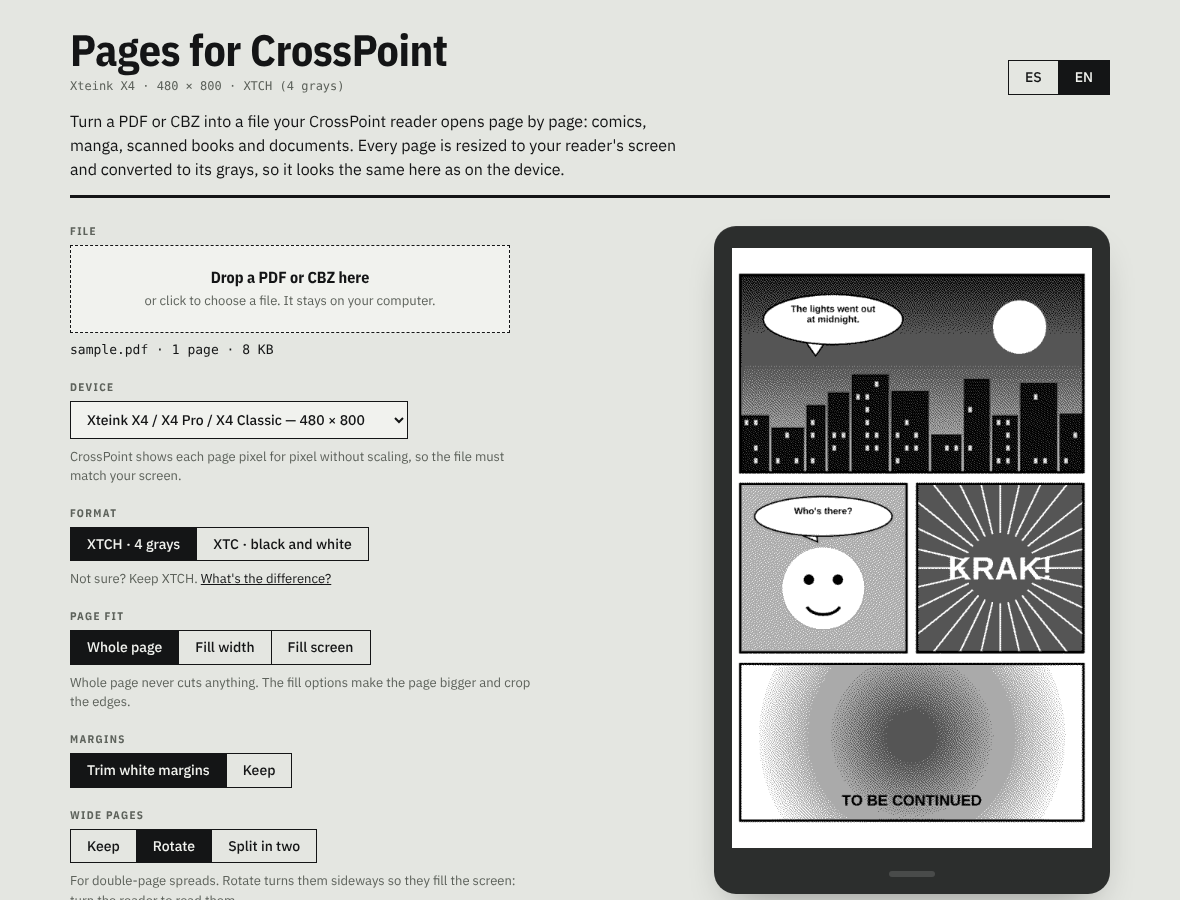
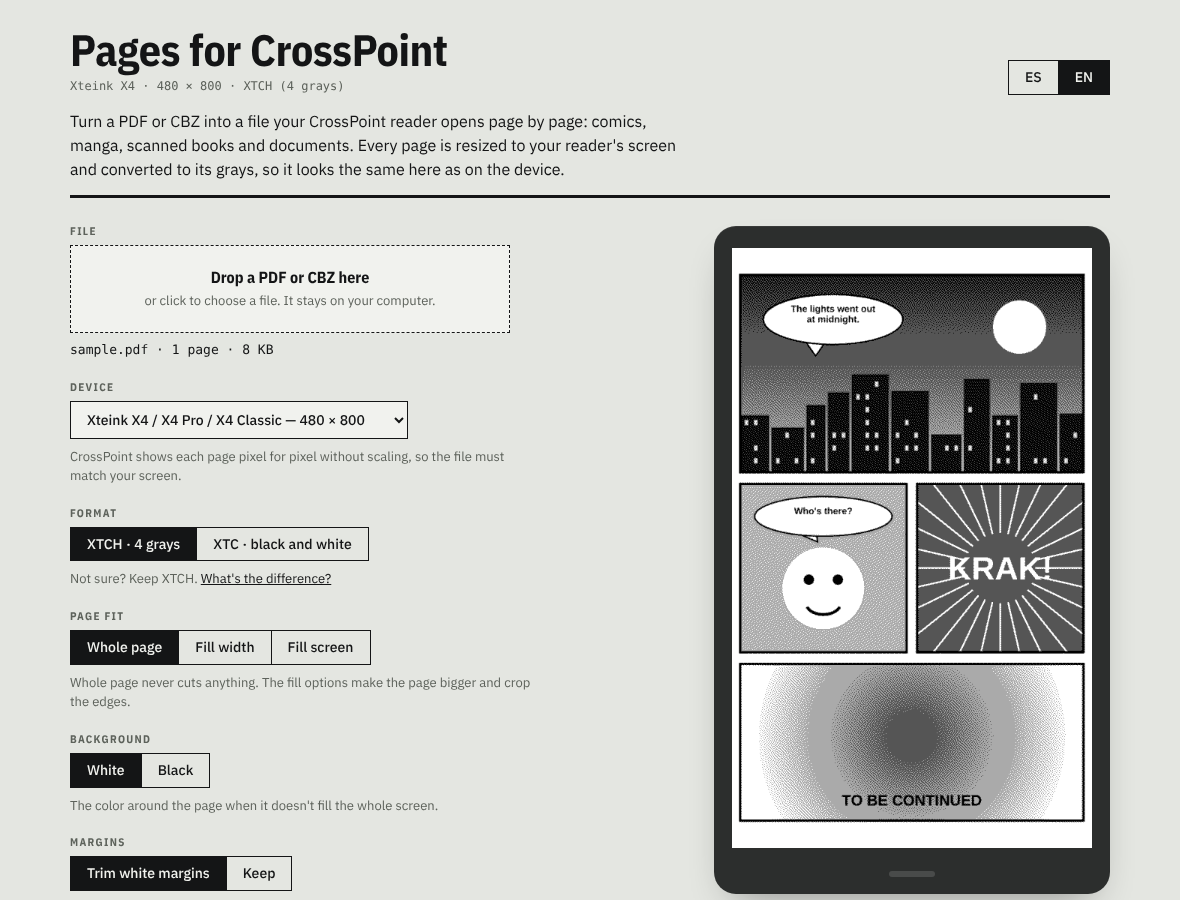
Add background color option and final file size before converting
Background: white or black around pages that don't fill the screen.
The final file size is exact for every setting except Split in two,
where PDFs get a close estimate from page sizes and CBZs a range.

Claude-Session: https://claude.ai/code/session_01Xucrxv7d2G3mzJqxddxMpR

Changed region(s): [[0.061, 0.8089, 0.4271, 1.0]]

diff --git a/index.html b/index.html
@@ -102,6 +102,7 @@ select { min-width: 280px; justify-self: start; }
 .btn:disabled { opacity: .5; cursor: not-allowed; filter: none; }
 .bar { height: 10px; max-width: 440px; border: 1.5px solid var(--ink); background: var(--panel); }
 .bar i { display: block; height: 100%; width: 0; background: var(--ink); }
+.estimate { font: 500 13px/1.4 var(--f-mono); color: var(--ink); margin: 0; max-width: 440px; }
 .status { font: 400 13px/1.4 var(--f-mono); color: var(--muted); min-height: 1.4em; margin: 0; max-width: 440px; }
 
 .howto { background: var(--panel); border: 1px solid var(--rule); padding: 18px 20px; display: grid; gap: 10px; max-width: 520px; }
@@ -205,6 +206,15 @@ footer a, .hint a { color: var(--ink); }
       </div>
 
       <div class="field">
+        <span class="label" data-t="bg">Background</span>
+        <div class="seg" role="radiogroup">
+          <input type="radio" name="bg" id="bg-white" value="white"><label for="bg-white" data-t="bgWhite">White</label>
+          <input type="radio" name="bg" id="bg-black" value="black"><label for="bg-black" data-t="bgBlack">Black</label>
+        </div>
+        <p class="hint" data-t="bgHint">The color around the page when it doesn't fill the whole screen.</p>
+      </div>
+
+      <div class="field">
         <span class="label" data-t="trim">Margins</span>
         <div class="seg" role="radiogroup">
           <input type="radio" name="trim" id="t-auto" value="auto"><label for="t-auto" data-t="trimAuto">Trim white margins</label>
@@ -236,6 +246,7 @@ footer a, .hint a { color: var(--ink); }
       </div>
 
       <div class="download">
+        <p class="estimate" id="estimate" hidden></p>
         <button class="btn" id="go" type="button" disabled><span data-t="go">Convert and download</span><small id="outname"></small></button>
         <button class="btn secondary" id="cancel" type="button" hidden><span data-t="cancel">Cancel</span></button>
         <div class="bar" id="bar" hidden><i id="barfill"></i></div>
@@ -304,6 +315,11 @@ const UI = {
     deviceHint: "CrossPoint shows each page pixel for pixel without scaling, so the file must match your screen.",
     format: "Format", fXtch: "XTCH · 4 grays", fXtc: "XTC · black and white",
     fmtHint: "Not sure? Keep XTCH.", fmtMore: "What's the difference?",
+    bg: "Background", bgWhite: "White", bgBlack: "Black",
+    bgHint: "The color around the page when it doesn't fill the whole screen.",
+    estExact: (sz, n) => `Final file: ${sz} · ${n} pages`,
+    estAbout: (sz, n) => `Final file: about ${sz} · about ${n} pages`,
+    estRange: (a, b) => `Final file: ${a} to ${b}, depending on how many pages are wide`,
     fit: "Page fit", fitFit: "Whole page", fitW: "Fill width", fitS: "Fill screen",
     fitHint: "Whole page never cuts anything. The fill options make the page bigger and crop the edges.",
     trim: "Margins", trimAuto: "Trim white margins", trimKeep: "Keep",
@@ -324,7 +340,7 @@ const UI = {
     xtcName: "XTC · black and white",
     xtcBody: "Each pixel is pure black or white, and grays are simulated with a fine dot pattern. Files are smaller and pages turn faster. Best for line art, text and high-contrast comics.",
     perPage: (kb, dev) => `About ${kb} KB per page on the ${dev}.`,
-    perBook: (mb, n) => ` About ${mb} MB for your ${n} pages.`,
+    perBook: (sz, n) => ` About ${sz} for your ${n} pages.`,
     foot: 'Made for <a href="https://crosspointreader.com/" target="_blank" rel="noopener">CrossPoint Reader</a>. Not affiliated with the project.',
     specGray: "XTCH (4 grays)", specBw: "XTC (black and white)",
     pages: (n) => `${n} page${n === 1 ? "" : "s"}`,
@@ -355,6 +371,11 @@ const UI = {
     deviceHint: "CrossPoint muestra cada página píxel por píxel, sin escalar, así que el archivo tiene que coincidir con tu pantalla.",
     format: "Formato", fXtch: "XTCH · 4 grises", fXtc: "XTC · blanco y negro",
     fmtHint: "¿No sabes cuál? Deja XTCH.", fmtMore: "¿Cuál es la diferencia?",
+    bg: "Fondo", bgWhite: "Blanco", bgBlack: "Negro",
+    bgHint: "El color alrededor de la página cuando no llena toda la pantalla.",
+    estExact: (sz, n) => `Archivo final: ${sz} · ${n} páginas`,
+    estAbout: (sz, n) => `Archivo final: unos ${sz} · unas ${n} páginas`,
+    estRange: (a, b) => `Archivo final: de ${a} a ${b}, según cuántas páginas sean anchas`,
     fit: "Ajuste de página", fitFit: "Página completa", fitW: "Llenar ancho", fitS: "Llenar pantalla",
     fitHint: "Página completa nunca recorta nada. Las opciones de llenar hacen la página más grande y recortan las orillas.",
     trim: "Márgenes", trimAuto: "Recortar márgenes blancos", trimKeep: "Conservar",
@@ -375,7 +396,7 @@ const UI = {
     xtcName: "XTC · blanco y negro",
     xtcBody: "Cada píxel es negro o blanco puro, y los grises se simulan con un patrón de puntos fino. Los archivos pesan menos y las páginas pasan más rápido. Ideal para dibujo de línea, texto y comics de alto contraste.",
     perPage: (kb, dev) => `Unos ${kb} KB por página en el ${dev}.`,
-    perBook: (mb, n) => ` Unos ${mb} MB para tus ${n} páginas.`,
+    perBook: (sz, n) => ` Unos ${sz} para tus ${n} páginas.`,
     foot: 'Hecho para <a href="https://crosspointreader.com/" target="_blank" rel="noopener">CrossPoint Reader</a>. Sin relación oficial con el proyecto.',
     specGray: "XTCH (4 grises)", specBw: "XTC (blanco y negro)",
     pages: (n) => `${n} página${n === 1 ? "" : "s"}`,
@@ -413,7 +434,7 @@ const DEVICES = [
 
 // ---------------------------------------------------------------- state
 const $ = (s) => document.querySelector(s);
-const state = { ui: null, device: "x4", cw: 480, ch: 800, fmt: "xtch", fit: "fit", trim: "auto", spread: "rotate", dir: "ltr" };
+const state = { ui: null, device: "x4", cw: 480, ch: 800, fmt: "xtch", fit: "fit", trim: "auto", spread: "rotate", dir: "ltr", bg: "white" };
 try { const saved = JSON.parse(localStorage.getItem("cp-pages") || "null"); if (saved) Object.assign(state, saved); }
 catch (e) { /* storage unavailable: defaults */ }
 if (!UI[state.ui]) state.ui = (navigator.language || "en").slice(0, 2) === "es" ? "es" : "en";
@@ -450,8 +471,8 @@ async function openPdf(file) {
   let doc;
   try { doc = await pdfjsLib.getDocument({ data, isEvalSupported: false }).promise; }
   catch (e) { throw { code: e && e.name === "PasswordException" ? "password" : "openFail" }; }
-  return {
-    kind: "pdf", count: doc.numPages,
+  const src = {
+    kind: "pdf", count: doc.numPages, wide: null,
     async raster(i, side) {
       const page = await doc.getPage(i + 1);
       const v1 = page.getViewport({ scale: 1 });
@@ -467,6 +488,18 @@ async function openPdf(file) {
     },
     close() { doc.destroy(); },
   };
+  (async () => {                                          // page sizes only, no rendering: fast
+    let wide = 0;
+    try {
+      for (let i = 1; i <= doc.numPages; i++) {
+        const v = (await doc.getPage(i)).getViewport({ scale: 1 });
+        if (v.width > v.height * 1.05) wide++;
+      }
+      src.wide = wide;
+      if (source === src) refresh();
+    } catch (e) { /* estimate stays a range */ }
+  })();
+  return src;
 }
 
 async function openCbz(file) {
@@ -478,7 +511,7 @@ async function openCbz(file) {
     .sort((a, b) => a.localeCompare(b, undefined, { numeric: true, sensitivity: "base" }));
   if (!names.length) throw { code: "noImages" };
   return {
-    kind: "cbz", count: names.length,
+    kind: "cbz", count: names.length, wide: null,
     async raster(i, side) {
       const blob = await zip.files[names[i]].async("blob");
       const bmp = await createImageBitmap(blob);
@@ -552,12 +585,12 @@ function scaled(src, w, h) {
   }
   return cur;
 }
-function fitTo(src, W, H, mode) {
+function fitTo(src, W, H, mode, bg) {
   const sw = src.width, sh = src.height;
   const s = mode === "width" ? W / sw : mode === "screen" ? Math.max(W / sw, H / sh) : Math.min(W / sw, H / sh);
   const dw = sw * s, dh = sh * s;
   const out = newCanvas(W, H), g = ctx2d(out);
-  g.fillStyle = "#fff"; g.fillRect(0, 0, W, H);
+  g.fillStyle = bg === "black" ? "#000" : "#fff"; g.fillRect(0, 0, W, H);
   const step = scaled(src, dw, dh);
   g.imageSmoothingQuality = "high";
   g.drawImage(step, (W - dw) / 2, (H - dh) / 2, dw, dh);
@@ -620,7 +653,7 @@ function processPage(raster, o) {
     const l = half(src, false), r = half(src, true);
     parts = (o.dir === "rtl" ? [r, l] : [l, r]).map(c => o.trim === "auto" ? trimmed(c) : c);
   }
-  const out = parts.map(c => quantize(fitTo(c, o.W, o.H, o.fit), o.fmt));
+  const out = parts.map(c => quantize(fitTo(c, o.W, o.H, o.fit, o.bg), o.fmt));
   return out;
 }
 
@@ -687,6 +720,8 @@ function buildFile(pages, W, H, fmt, title, dir) {
   });
   return new Blob([head, ...pages], { type: "application/octet-stream" });
 }
+function pageBytes(W, H, fmt) { return 22 + (fmt === "xtch" ? W * ((H + 7) >> 3) * 2 : ((W + 7) >> 3) * H); }
+function fileBytes(n, W, H, fmt) { return 0xF8 + n * (16 + pageBytes(W, H, fmt)); }
 function utf8Max(s, max) {
   const enc = new TextEncoder();
   let out = enc.encode(s);
@@ -700,7 +735,7 @@ let preview = { src: 0, sub: 0, parts: null, key: "" }, previewSeq = 0;
 
 function opts() {
   const { W, H } = size();
-  return { W, H, fmt: state.fmt, fit: state.fit, trim: state.trim, spread: state.spread, dir: state.dir };
+  return { W, H, fmt: state.fmt, fit: state.fit, trim: state.trim, spread: state.spread, dir: state.dir, bg: state.bg };
 }
 function workSide(o) { return Math.round(2.5 * Math.max(o.W, o.H)); }
 
@@ -875,7 +910,7 @@ function applyUI() {
   const sel = $("#device");
   sel.innerHTML = DEVICES.map(d => `<option value="${d.id}">${d.id === "custom" ? t("custom") : `${d.name} — ${d.w} × ${d.h}`}</option>`).join("");
   sel.value = state.device;
-  ["ui", "fmt", "fit", "trim", "spread", "dir"].forEach(k => check(k, state[k]));
+  ["ui", "fmt", "fit", "trim", "spread", "dir", "bg"].forEach(k => check(k, state[k]));
 }
 
 function refresh() {
@@ -894,12 +929,20 @@ function refresh() {
   if (!running) $("#bar").hidden = true;
   drop.style.pointerEvents = running ? "none" : "";
   document.querySelectorAll(".controls input, .controls select").forEach(el => { if (el.id !== "file") el.disabled = running; });
-  // per-page sizes for the format explainer
-  const kbH = (W * ((H + 7) >> 3) * 2 + 38) / 1024, kbB = (((W + 7) >> 3) * H + 38) / 1024;
+  // Every page has the same size, so the final file size is known before converting.
+  // Only "Split in two" depends on how many pages are wide.
   const n = source ? source.count : 0;
-  const book = (kb) => n ? t("perBook")(((kb * n) / 1024).toFixed(1), n) : "";
-  $("#size-xtch").textContent = t("perPage")(Math.round(kbH), devLabel()) + book(kbH);
-  $("#size-xtc").textContent = t("perPage")(Math.round(kbB), devLabel()) + book(kbB);
+  const est = $("#estimate");
+  est.hidden = !source || running;
+  if (source) {
+    if (state.spread !== "split") est.textContent = t("estExact")(bytes(fileBytes(n, W, H, state.fmt)), n);
+    else if (source.wide != null) est.textContent = t("estAbout")(bytes(fileBytes(n + source.wide, W, H, state.fmt)), n + source.wide);
+    else est.textContent = t("estRange")(bytes(fileBytes(n, W, H, state.fmt)), bytes(fileBytes(2 * n, W, H, state.fmt)));
+  }
+  const per = (fmt) => Math.round((pageBytes(W, H, fmt) + 16) / 1024);
+  const book = (fmt) => n ? t("perBook")(bytes(fileBytes(n, W, H, fmt)), n) : "";
+  $("#size-xtch").textContent = t("perPage")(per("xtch"), devLabel()) + book("xtch");
+  $("#size-xtc").textContent = t("perPage")(per("xtc"), devLabel()) + book("xtc");
   persist();
 }
 
@@ -915,7 +958,7 @@ function changed(rerender = true) {
 document.addEventListener("change", (e) => {
   const el = e.target;
   if (el.name === "ui") { state.ui = el.value; applyUI(); changed(false); updatePager(); if (!source) drawEmpty(); return; }
-  if (["fmt", "fit", "trim", "spread", "dir"].includes(el.name)) { state[el.name] = el.value; changed(); }
+  if (["fmt", "fit", "trim", "spread", "dir", "bg"].includes(el.name)) { state[el.name] = el.value; changed(); }
   if (el.id === "device") { state.device = el.value; changed(); }
   if (el.id === "cw" || el.id === "ch") { state[el.id] = clampSize(el.value); changed(); }
 });

diff --git a/README.es.md b/README.es.md
@@ -20,8 +20,9 @@ Todo corre en tu navegador. El archivo nunca se sube a ningún lado; no hay serv
 
 1. Suelta un PDF o CBZ en la página.
 2. Elige tu **dispositivo**. La vista previa muestra exactamente los píxeles que verás en el lector.
-3. Elige las opciones de abajo, revisa algunas páginas con las flechas y presiona **Convertir y descargar**.
-4. Copia el archivo a la tarjeta SD, por ejemplo a una carpeta `/comics`, y ábrelo desde **Browse Files** en el lector.
+3. Elige las opciones de abajo y revisa algunas páginas con las flechas. El tamaño del archivo final aparece arriba del botón antes de convertir.
+4. Presiona **Convertir y descargar**.
+5. Copia el archivo a la tarjeta SD, por ejemplo a una carpeta `/comics`, y ábrelo desde **Browse Files** en el lector.
 
 ## Dispositivos
 
@@ -42,6 +43,7 @@ CrossPoint dibuja cada página píxel por píxel, sin escalar, así que el archi
 
 - **Formato:** XTCH (4 grises) o XTC (blanco y negro). Ver abajo.
 - **Ajuste de página:** *Página completa* nunca recorta nada. *Llenar ancho* y *Llenar pantalla* hacen la página más grande y recortan las orillas.
+- **Fondo:** blanco o negro, para el espacio alrededor de la página cuando no llena la pantalla.
 - **Márgenes:** *Recortar márgenes blancos* quita el borde vacío de cada página para que el dibujo se vea más grande en la pantalla chica.
 - **Páginas anchas:** para páginas dobles. *Rotar* las acuesta para llenar la pantalla; *Partir en dos* las convierte en dos páginas.
 - **Sentido de lectura:** izquierda a derecha, o derecha a izquierda para manga. Define el orden de las páginas partidas.

diff --git a/README.md b/README.md
@@ -20,8 +20,9 @@ Everything runs in your browser. The file is never uploaded, and there is no ser
 
 1. Drop a PDF or CBZ on the page.
 2. Pick your **device**. The preview shows the exact pixels your reader will display.
-3. Choose the options below, check a few pages with the arrows, then **Convert and download**.
-4. Copy the file to the SD card, for example to a `/comics` folder, and open it from **Browse Files** on the reader.
+3. Choose the options below and check a few pages with the arrows. The final file size shows above the button before you convert.
+4. **Convert and download**.
+5. Copy the file to the SD card, for example to a `/comics` folder, and open it from **Browse Files** on the reader.
 
 ## Devices
 
@@ -42,6 +43,7 @@ CrossPoint draws each page pixel for pixel without scaling, so the file has to m
 
 - **Format:** XTCH (4 grays) or XTC (black and white). See below.
 - **Page fit:** *Whole page* never cuts anything. *Fill width* and *Fill screen* make the page bigger and crop the edges.
+- **Background:** white or black, for the space around the page when it doesn't fill the screen.
 - **Margins:** *Trim white margins* removes the empty border around each page so the art is larger on the small screen.
 - **Wide pages:** for double-page spreads. *Rotate* turns them sideways to fill the screen; *Split in two* makes two pages.
 - **Reading direction:** left to right, or right to left for manga. It sets the order of split pages.
